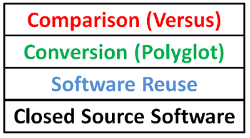
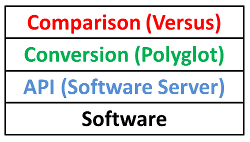
Additional refactoring of softwareserver package, added PublishSnapshot.bat.

diff --git a/src/main/java/edu/illinois/ncsa/isda/softwareserver/bak/SoftwareMonkey_F.java b/src/main/java/edu/illinois/ncsa/isda/softwareserver/bak/SoftwareMonkey_F.java
@@ -15,14 +15,14 @@ import java.util.List;
  * TODO: This is work in progress, must make this approach workable!
  * @author Kenton McHenry
  */
-public class SoftwareReuseMonkey_F extends JPanel implements Runnable, DropTargetListener, MouseListener
+public class SoftwareMonkey_F extends JPanel implements Runnable, DropTargetListener, MouseListener
 {
 	private TreeSet<FileLabel> files = new TreeSet<FileLabel>();
 	private FileLabel selected_file;
   private Graphics bg;
   private Image offscreen;
   
-	public SoftwareReuseMonkey_F()
+	public SoftwareMonkey_F()
 	{
 		FlowLayout flow_layout = new FlowLayout(FlowLayout.LEFT);
 		flow_layout.setHorizontalLayout(false);
@@ -124,7 +124,7 @@ public class SoftwareReuseMonkey_F extends JPanel implements Runnable, DropTarge
 	 */
 	public static void main(String args[])
 	{
-		SoftwareReuseMonkey_F icr_monkey = new SoftwareReuseMonkey_F();
+		SoftwareMonkey_F icr_monkey = new SoftwareMonkey_F();
 		
     JFrame frame = new JFrame("ICR Monkey Desktop");
     frame.setSize(600, 600);

diff --git a/src/main/java/edu/illinois/ncsa/isda/softwareserver/polyglot/weighted/IOGraph2.java b/src/main/java/edu/illinois/ncsa/isda/softwareserver/polyglot/weighted/IOGraph2.java
@@ -14,9 +14,9 @@ import javax.swing.JFrame;
 import org.apache.commons.logging.Log;
 import org.apache.commons.logging.LogFactory;
 import edu.illinois.ncsa.isda.softwareserver.SoftwareServerClient;
-import edu.illinois.ncsa.isda.softwareserver.ICRAuxiliary.Application;
-import edu.illinois.ncsa.isda.softwareserver.ICRAuxiliary.Data;
-import edu.illinois.ncsa.isda.softwareserver.ICRAuxiliary.Operation;
+import edu.illinois.ncsa.isda.softwareserver.SoftwareServerAuxiliary.Application;
+import edu.illinois.ncsa.isda.softwareserver.SoftwareServerAuxiliary.Data;
+import edu.illinois.ncsa.isda.softwareserver.SoftwareServerAuxiliary.Operation;
 
 /**
  * Graph that contains all possible conversions. Conversions are from an input

diff --git a/src/main/java/edu/illinois/ncsa/isda/softwareserver/polyglot/IOGraphWeightsToolHeadless.java b/src/main/java/edu/illinois/ncsa/isda/softwareserver/polyglot/IOGraphWeightsToolHeadless.java
@@ -26,8 +26,8 @@ import java.util.logging.Logger;
 import org.apache.commons.logging.Log;
 import org.apache.commons.logging.LogFactory;
 import org.apache.log4j.BasicConfigurator;
-import edu.illinois.ncsa.isda.softwareserver.ICRAuxiliary.Application;
-import edu.illinois.ncsa.isda.softwareserver.ICRAuxiliary.Data;
+import edu.illinois.ncsa.isda.softwareserver.SoftwareServerAuxiliary.Application;
+import edu.illinois.ncsa.isda.softwareserver.SoftwareServerAuxiliary.Data;
 import edu.illinois.ncsa.isda.softwareserver.polyglot.PolyglotAuxiliary.Conversion;
 import edu.illinois.ncsa.isda.softwareserver.polyglot.PolyglotAuxiliary.FileInfo;
 import kgm.utility.*;

diff --git a/src/main/java/edu/illinois/ncsa/isda/softwareserver/SoftwareServerClient.java b/src/main/java/edu/illinois/ncsa/isda/softwareserver/SoftwareServerClient.java
@@ -1,5 +1,5 @@
 package edu.illinois.ncsa.isda.softwareserver;
-import edu.illinois.ncsa.isda.softwareserver.ICRAuxiliary.*;
+import edu.illinois.ncsa.isda.softwareserver.SoftwareServerAuxiliary.*;
 import kgm.utility.*;
 import java.io.*;
 import java.net.*;
@@ -469,7 +469,7 @@ public class SoftwareServerClient implements Comparable
 			
 			if(console != null){				
 				while(true){
-					line = console.readLine("\nicr> ");
+					line = console.readLine("\nsoftwareserver> ");
 	
 					if(line.equals("pwd")){
 						System.out.println(cwd);

diff --git a/src/test/java/edu/illinois/ncsa/isda/softwareserver/polyglot/PolyglotTest.java b/src/test/java/edu/illinois/ncsa/isda/softwareserver/polyglot/PolyglotTest.java
@@ -1,8 +1,5 @@
-package edu.illinois.ncsa.isda.icr.polyglot;
-import edu.illinois.ncsa.isda.softwareserver.SoftwareServer;
-import edu.illinois.ncsa.isda.softwareserver.SoftwareServerClient;
-import edu.illinois.ncsa.isda.softwareserver.polyglot.PolyglotClient;
-import edu.illinois.ncsa.isda.softwareserver.polyglot.PolyglotServer;
+package edu.illinois.ncsa.isda.softwareserver.polyglot;
+import edu.illinois.ncsa.isda.softwareserver.*;
 import kgm.utility.Utility;
 import org.junit.Test;
 import static org.junit.Assert.*;

diff --git a/src/test/java/edu/illinois/ncsa/isda/softwareserver/SoftwareServerTest.java b/src/test/java/edu/illinois/ncsa/isda/softwareserver/SoftwareServerTest.java
@@ -1,8 +1,5 @@
-package edu.illinois.ncsa.isda.icr;
-import edu.illinois.ncsa.isda.softwareserver.ScriptDebugger;
-import edu.illinois.ncsa.isda.softwareserver.SoftwareServer;
-import edu.illinois.ncsa.isda.softwareserver.SoftwareServerClient;
-import edu.illinois.ncsa.isda.softwareserver.ICRAuxiliary.*;
+package edu.illinois.ncsa.isda.softwareserver;
+import edu.illinois.ncsa.isda.softwareserver.SoftwareServerAuxiliary.*;
 import kgm.utility.Utility;
 import org.junit.Test;
 import static org.junit.Assert.*;

diff --git a/src/main/java/edu/illinois/ncsa/isda/softwareserver/parametrized/SoftwareServerReslet.java b/src/main/java/edu/illinois/ncsa/isda/softwareserver/parametrized/SoftwareServerReslet.java
@@ -1,6 +1,6 @@
 package edu.illinois.ncsa.isda.softwareserver.parametrized;
-import edu.illinois.ncsa.isda.softwareserver.parametrized.ICRAuxiliary.*;
-import edu.illinois.ncsa.isda.softwareserver.parametrized.ICRAuxiliary.Application;
+import edu.illinois.ncsa.isda.softwareserver.parametrized.SoftwareServerAuxiliary.*;
+import edu.illinois.ncsa.isda.softwareserver.parametrized.SoftwareServerAuxiliary.Application;
 import java.util.*;
 import java.io.*;
 import java.lang.management.*;

diff --git a/src/main/java/edu/illinois/ncsa/isda/softwareserver/SoftwareServerRestlet.java b/src/main/java/edu/illinois/ncsa/isda/softwareserver/SoftwareServerRestlet.java
@@ -1,6 +1,6 @@
 package edu.illinois.ncsa.isda.softwareserver;
-import edu.illinois.ncsa.isda.softwareserver.ICRAuxiliary.*;
-import edu.illinois.ncsa.isda.softwareserver.ICRAuxiliary.Application;
+import edu.illinois.ncsa.isda.softwareserver.SoftwareServerAuxiliary.*;
+import edu.illinois.ncsa.isda.softwareserver.SoftwareServerAuxiliary.Application;
 import kgm.image.ImageUtility;
 import kgm.utility.*;
 import java.util.*;

diff --git a/src/main/java/edu/illinois/ncsa/isda/softwareserver/polyglot/IOGraphPanel.java b/src/main/java/edu/illinois/ncsa/isda/softwareserver/polyglot/IOGraphPanel.java
@@ -1,6 +1,6 @@
 package edu.illinois.ncsa.isda.softwareserver.polyglot;
 import edu.illinois.ncsa.isda.softwareserver.*;
-import edu.illinois.ncsa.isda.softwareserver.ICRAuxiliary.*;
+import edu.illinois.ncsa.isda.softwareserver.SoftwareServerAuxiliary.*;
 import edu.illinois.ncsa.isda.softwareserver.polyglot.PolyglotAuxiliary.*;
 import kgm.image.*;
 import kgm.utility.*;

diff --git a/src/main/java/edu/illinois/ncsa/isda/softwareserver/polyglot/IOGraph.java b/src/main/java/edu/illinois/ncsa/isda/softwareserver/polyglot/IOGraph.java
@@ -1,6 +1,6 @@
 package edu.illinois.ncsa.isda.softwareserver.polyglot;
 import edu.illinois.ncsa.isda.softwareserver.*;
-import edu.illinois.ncsa.isda.softwareserver.ICRAuxiliary.*;
+import edu.illinois.ncsa.isda.softwareserver.SoftwareServerAuxiliary.*;
 import edu.illinois.ncsa.isda.softwareserver.polyglot.PolyglotAuxiliary.*;
 import kgm.utility.*;
 import java.io.*;

diff --git a/src/main/java/edu/illinois/ncsa/isda/softwareserver/polyglot/IOGraphWeightsTool.java b/src/main/java/edu/illinois/ncsa/isda/softwareserver/polyglot/IOGraphWeightsTool.java
@@ -1,6 +1,6 @@
 package edu.illinois.ncsa.isda.softwareserver.polyglot;
 import kgm.utility.*;
-import edu.illinois.ncsa.isda.softwareserver.ICRAuxiliary.*;
+import edu.illinois.ncsa.isda.softwareserver.SoftwareServerAuxiliary.*;
 import edu.illinois.ncsa.isda.softwareserver.polyglot.PolyglotAuxiliary.*;
 import edu.illinois.ncsa.versus.engine.impl.*;
 import java.awt.*;
